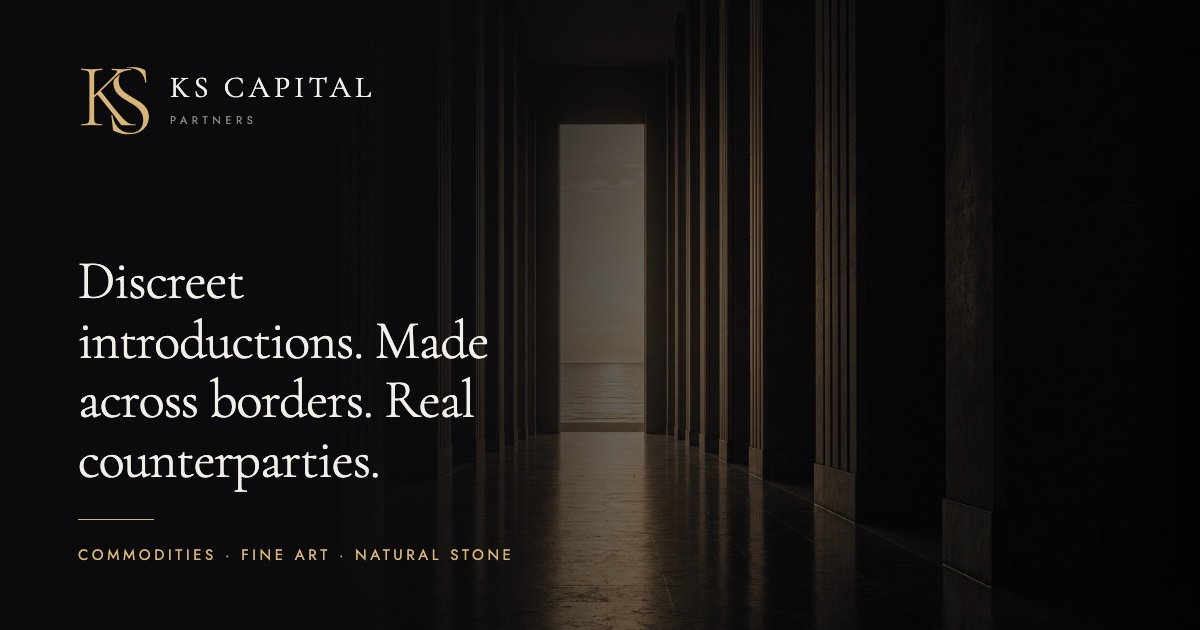
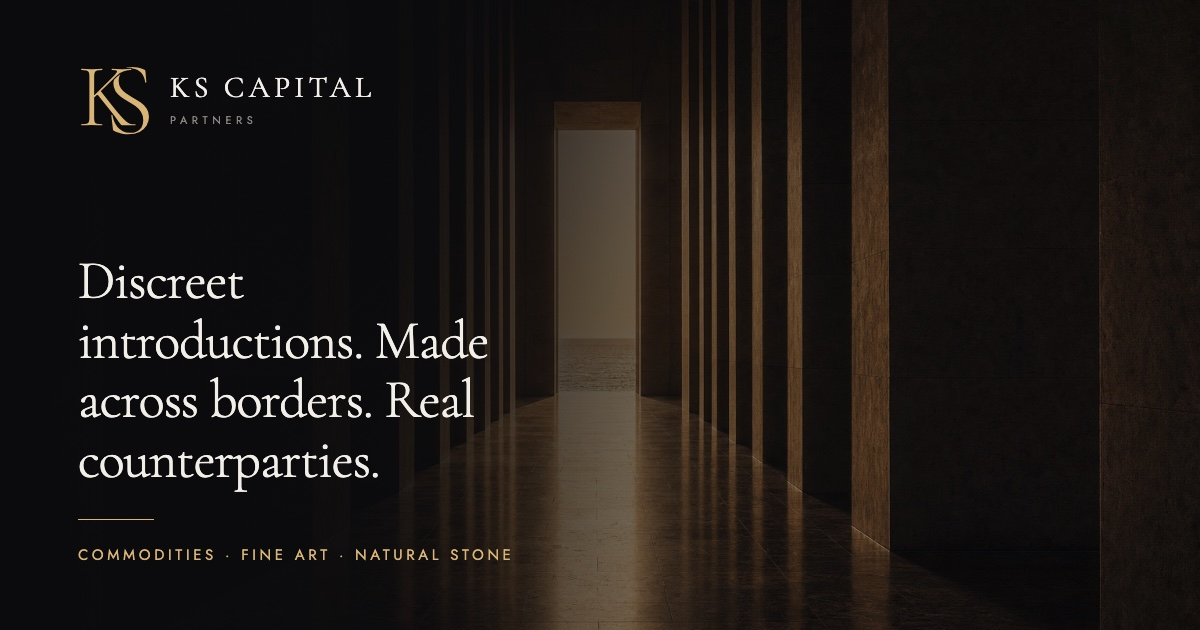
Immagini rigenerate con esposizione più alta; velo delle schede più aperto

Changed region(s): [[0.37, 0.0, 0.7708, 1.0], [0.8942, 0.2413, 1.0, 0.9048]]

diff --git a/assets/css/style.css b/assets/css/style.css
@@ -650,9 +650,11 @@ html.js.has-pointer .spotlight { opacity: 1; }
 .sector__toggle:focus-visible .sector__media { transform: scale(1.07); filter: saturate(1) brightness(1.04); }
 .sector__toggle::after {                     /* velo per la leggibilità del testo */
   content: ""; position: absolute; inset: 0; z-index: 1;
+  /* La fascia alta resta scura: ci poggiano nome e sommario. Il centro si apre,
+     perché lì non c'è testo ed è dove la fotografia deve farsi vedere. */
   background: linear-gradient(to bottom, rgba(6,6,8,.90) 0%, rgba(6,6,8,.74) 15%,
-              rgba(6,6,8,.24) 33%, rgba(6,6,8,.32) 46%, rgba(6,6,8,.78) 62%,
-              rgba(6,6,8,.95) 82%, rgba(6,6,8,.97) 100%);
+              rgba(6,6,8,.13) 34%, rgba(6,6,8,.18) 48%, rgba(6,6,8,.72) 64%,
+              rgba(6,6,8,.92) 82%, rgba(6,6,8,.96) 100%);
   transition: opacity var(--dur) var(--ease);
 }
 .sector__body {

diff --git a/scripts/make-og.py b/scripts/make-og.py
@@ -49,7 +49,7 @@ BG = next((f"assets/img/hero.{x}" for x in ("jpg", "webp", "png")
            if (ROOT / f"assets/img/hero.{x}").exists()), "assets/img/art-hero.svg")
 print(f"  fondale: {BG}")
 
-for lang in ("it", "en"):
+for lang in ("en",):
     title = COPY["hero.title"][lang].replace(" | ", " ")
     html = TPL.format(root=ROOT.as_uri(), mark=MARK, title=title, tag=SECTORS[lang], bg=BG)
     src = ROOT / f".og-{lang}.html"
@@ -63,7 +63,7 @@ for lang in ("it", "en"):
     print(f"  ✓ og-image-{lang}.png  {out.stat().st_size // 1024} KB")
 
 # Le anteprime social viaggiano meglio in JPEG: stessa resa, un quinto del peso.
-for lang in ("it", "en"):
+for lang in ("en",):
     png = ROOT / "assets" / "img" / f"og-image-{lang}.png"
     jpg = png.with_suffix(".jpg")
     subprocess.run(["sips", "-s", "format", "jpeg", "-s", "formatOptions", "86",
